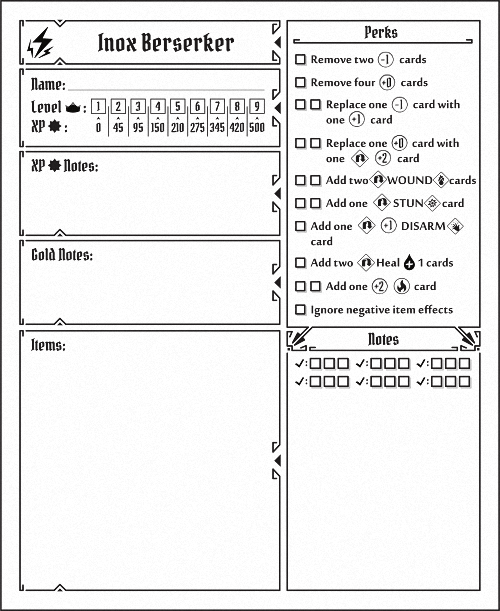
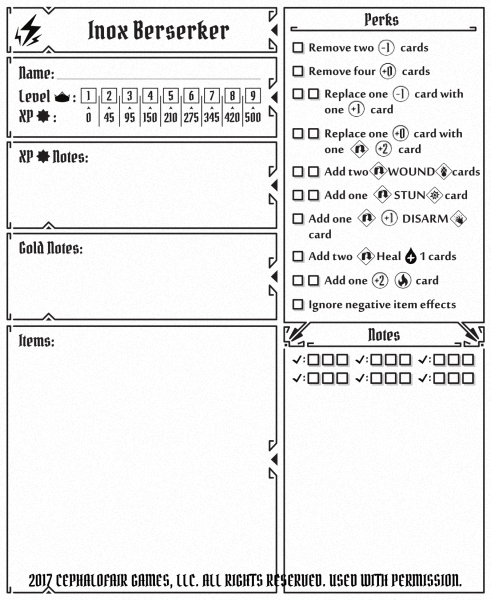
Implement New GH CP Assets with Copyright, Standardized Size, and Asset Numbers

Changed region(s): [[0.0, 0.0, 1.0, 1.0]]

diff --git a/data/character-perks.js b/data/character-perks.js
@@ -1,213 +1,243 @@
 [
   {
-    "name": "party sheet",
+    "name": "beast tyrant perks",
     "points": 0,
     "expansion": "gloomhaven",
-    "image": "character-perks/gloomhaven/gh-party-sheet.png",
-    "xws": "partysheet"
-  },
-  {
-    "name": "beast tyrant perks",
-    "points": 1,
-    "expansion": "gloomhaven",
     "image": "character-perks/gloomhaven/gh-beast-tyrant-perks.png",
-    "xws": "beasttyrantperks"
+    "xws": "beasttyrantperks",
+    "assetno": "###"
   },
   {
     "name": "two minis perks",
-    "points": 2,
+    "points": 1,
     "expansion": "gloomhaven",
     "image": "character-perks/gloomhaven/gh-beast-tyrant-perks.png",
-    "xws": "beasttyrantperks"
+    "xws": "twominisperks",
+    "assetno": "###"
   },
   {
     "name": "berserker perks",
-    "points": 3,
+    "points": 2,
     "expansion": "gloomhaven",
     "image": "character-perks/gloomhaven/gh-berserker-perks.png",
-    "xws": "berserkerperks"
+    "xws": "berserkerperks",
+    "assetno": "###"
   },
   {
     "name": "lightning bolt perks",
-    "points": 4,
+    "points": 3,
     "expansion": "gloomhaven",
     "image": "character-perks/gloomhaven/gh-berserker-perks.png",
-    "xws": "berserkerperks"
+    "xws": "lightningboltperks",
+    "assetno": "###"
   },
   {
     "name": "bladeswarm perks",
-    "points": 5,
+    "points": 4,
     "expansion": "gloomhaven",
     "image": "character-perks/gloomhaven/gh-bladeswarm-perks.png",
-    "xws": "bladeswarmperks"
+    "xws": "bladeswarmperks",
+    "assetno": "###"
   },
   {
     "name": "brute perks",
-    "points": 6,
+    "points": 5,
     "expansion": "gloomhaven",
     "image": "character-perks/gloomhaven/gh-brute-perks.png",
-    "xws": "bruteperks"
+    "xws": "bruteperks",
+    "assetno": "###"
   },
   {
     "name": "cragheart perks",
-    "points": 7,
+    "points": 6,
     "expansion": "gloomhaven",
     "image": "character-perks/gloomhaven/gh-cragheart-perks.png",
-    "xws": "cragheartperks"
+    "xws": "cragheartperks",
+    "assetno": "###"
   },
   {
     "name": "doomstalker perks",
-    "points": 8,
+    "points": 7,
     "expansion": "gloomhaven",
     "image": "character-perks/gloomhaven/gh-doomstalker-perks.png",
-    "xws": "doomstalkerperks"
+    "xws": "doomstalkerperks",
+    "assetno": "###"
   },
   {
     "name": "angry face perks",
-    "points": 9,
+    "points": 8,
     "expansion": "gloomhaven",
     "image": "character-perks/gloomhaven/gh-doomstalker-perks.png",
-    "xws": "doomstalkerperks"
+    "xws": "angryfaceperks",
+    "assetno": "###"
   },
   {
     "name": "elementalist perks",
-    "points": 10,
+    "points": 9,
     "expansion": "gloomhaven",
     "image": "character-perks/gloomhaven/gh-elementalist-perks.png",
-    "xws": "elementalistperks"
+    "xws": "elementalistperks",
+    "assetno": "###"
   },
   {
     "name": "triangles perks",
-    "points": 11,
+    "points": 10,
     "expansion": "gloomhaven",
     "image": "character-perks/gloomhaven/gh-elementalist-perks.png",
-    "xws": "elementalistperks"
+    "xws": "trianglesperks",
+    "assetno": "###"
   },
   {
     "name": "mindthief perks",
-    "points": 12,
+    "points": 11,
     "expansion": "gloomhaven",
     "image": "character-perks/gloomhaven/gh-mindthief-perks.png",
-    "xws": "mindthiefperks"
+    "xws": "mindthiefperks",
+    "assetno": "###"
   },
   {
     "name": "nightshroud perks",
-    "points": 13,
+    "points": 12,
     "expansion": "gloomhaven",
     "image": "character-perks/gloomhaven/gh-nightshroud-perks.png",
-    "xws": "nightshroudperks"
+    "xws": "nightshroudperks",
+    "assetno": "###"
   },
   {
     "name": "eclipse perks",
-    "points": 14,
+    "points": 13,
     "expansion": "gloomhaven",
     "image": "character-perks/gloomhaven/gh-nightshroud-perks.png",
-    "xws": "nightshroudperks"
+    "xws": "eclipseperks",
+    "assetno": "###"
+  },
+  {
+    "name": "party sheet",
+    "points": 14,
+    "expansion": "gloomhaven",
+    "image": "character-perks/gloomhaven/gh-party-sheet.png",
+    "xws": "partysheet",
+    "assetno": "###"
   },
   {
     "name": "plagueherald perks",
     "points": 15,
     "expansion": "gloomhaven",
     "image": "character-perks/gloomhaven/gh-plagueherald-perks.png",
-    "xws": "plagueheraldperks"
+    "xws": "plagueheraldperks",
+    "assetno": "###"
   },
   {
     "name": "cthulhu perks",
     "points": 16,
     "expansion": "gloomhaven",
     "image": "character-perks/gloomhaven/gh-plagueherald-perks.png",
-    "xws": "plagueheraldperks"
+    "xws": "cthulhuperks",
+    "assetno": "###"
   },
   {
     "name": "quartermaster perks",
     "points": 17,
     "expansion": "gloomhaven",
     "image": "character-perks/gloomhaven/gh-quartermaster-perks.png",
-    "xws": "quartermasterperks"
+    "xws": "quartermasterperks",
+    "assetno": "###"
   },
   {
     "name": "three spears perks",
     "points": 18,
     "expansion": "gloomhaven",
     "image": "character-perks/gloomhaven/gh-quartermaster-perks.png",
-    "xws": "quartermasterperks"
+    "xws": "threespearsperks",
+    "assetno": "###"
   },
   {
     "name": "sawbones perks",
     "points": 19,
     "expansion": "gloomhaven",
     "image": "character-perks/gloomhaven/gh-sawbones-perks.png",
-    "xws": "sawbonesperks"
+    "xws": "sawbonesperks",
+    "assetno": "###"
   },
   {
     "name": "saw perks",
     "points": 20,
     "expansion": "gloomhaven",
     "image": "character-perks/gloomhaven/gh-sawbones-perks.png",
-    "xws": "sawbonesperks"
+    "xws": "sawperks",
+    "assetno": "###"
   },
   {
     "name": "scoundrel perks",
     "points": 21,
     "expansion": "gloomhaven",
     "image": "character-perks/gloomhaven/gh-scoundrel-perks.png",
-    "xws": "scoundrelperks"
+    "xws": "scoundrelperks",
+    "assetno": "###"
   },
   {
     "name": "soothsinger perks",
     "points": 22,
     "expansion": "gloomhaven",
     "image": "character-perks/gloomhaven/gh-soothsinger-perks.png",
-    "xws": "soothsingerperks"
+    "xws": "soothsingerperks",
+    "assetno": "###"
   },
   {
     "name": "music note perks",
     "points": 23,
     "expansion": "gloomhaven",
     "image": "character-perks/gloomhaven/gh-soothsinger-perks.png",
-    "xws": "soothsingerperks"
+    "xws": "musicnoteperks",
+    "assetno": "###"
   },
   {
     "name": "spellweaver perks",
     "points": 24,
     "expansion": "gloomhaven",
     "image": "character-perks/gloomhaven/gh-spellweaver-perks.png",
-    "xws": "spellweaverperks"
+    "xws": "spellweaverperks",
+    "assetno": "###"
   },
   {
     "name": "summoner perks",
     "points": 25,
     "expansion": "gloomhaven",
     "image": "character-perks/gloomhaven/gh-summoner-perks.png",
-    "xws": "summonerperks"
+    "xws": "summonerperks",
+    "assetno": "###"
   },
   {
     "name": "circles perks",
     "points": 26,
     "expansion": "gloomhaven",
     "image": "character-perks/gloomhaven/gh-summoner-perks.png",
-    "xws": "summonerperks"
+    "xws": "circlesperks",
+    "assetno": "###"
   },
   {
     "name": "sunkeeper perks",
     "points": 27,
     "expansion": "gloomhaven",
     "image": "character-perks/gloomhaven/gh-sunkeeper-perks.png",
-    "xws": "sunkeeperperks"
+    "xws": "sunkeeperperks",
+    "assetno": "###"
   },
   {
     "name": "sun perks",
     "points": 28,
     "expansion": "gloomhaven",
     "image": "character-perks/gloomhaven/gh-sunkeeper-perks.png",
-    "xws": "sunkeeperperks"
+    "xws": "sunperks",
+    "assetno": "###"
   },
   {
     "name": "tinkerer perks",
     "points": 29,
     "expansion": "gloomhaven",
     "image": "character-perks/gloomhaven/gh-tinkerer-perks.png",
-    "xws": "tinkererperks"
+    "xws": "tinkererperks",
+    "assetno": "###"
   },
   {
     "name": "diviner perks",
